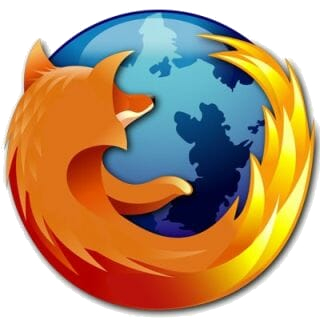
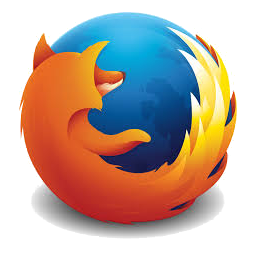
un poco mas bonito y mas interactivo

diff --git a/mdn/scripts/main.js b/mdn/scripts/main.js
@@ -1,3 +1,4 @@
+//para obtener una referencia document.querySelector('Element');
 var miTitulo = document.querySelector('h1');
 miTitulo.innerHTML = 'Hello world! ';
 
@@ -11,16 +12,34 @@ var miImage = document.querySelector('img');
 miImage.onclick = function(){
 	var miSrc = miImage.getAttribute('src');
 	if (miSrc === 'images/firefox-icon.png') {
-		miImage.setAttribute('src', 'images/firefox-icon2.png');
-		miLegend.style.color = 'red';
-		miLegend.style.background = 'blue';
-		miLegend.innerHTML ='Soy mas viejo pero tambien soy un panda rojo en peligro de extinsion';
-		
-	}else{
-		miImage.setAttribute('src', 'images/firefox-icon.png');
-		miLegend.style.color = 'red';
-		miLegend.style.background = 'blue';
+		miImage.setAttribute('src', 'images/firefox-icon1.png');
+		miLegend.style.color = '#fffc40';
+		miLegend.style.background = '#006be6';
 		miLegend.innerHTML ='Ouch! Deja de pincharme! soy un panda rojo en peligro de extinsion';
+		
+	}else if(miSrc === 'images/firefox-icon1.png'){
+		miImage.setAttribute('src', 'images/firefox-icon2.png');
+		miLegend.style.color = '#fffc40';
+		miLegend.style.background = '#006be6';
+		miLegend.innerHTML ='Soy mas viejo pero tambien soy un panda rojo en peligro de extinsion';
+	}else if(miSrc === 'images/firefox-icon2.png'){
+		miImage.setAttribute('src', 'images/firefox-icon3.png');
+		miLegend.style.color = '#fffc40';
+		miLegend.style.background = '#006be6';
+		miLegend.innerHTML ='Soy mas viejo aun pero tambien soy un panda rojo en peligro de extinsion';
+	}else if(miSrc === 'images/firefox-icon3.png'){
+		miImage.setAttribute('src', 'images/firefox-icon4.png');
+		miLegend.style.color = '#fffc40';
+		miLegend.style.background = '#006be6';
+		miLegend.innerHTML ='Yo soy un Phoenix';
+	}else if(miSrc === 'images/firefox-icon4.png'){
+		miImage.setAttribute('src', 'images/firefox-icon.png');
+		miLegend.style.color = '#fffc40';
+		miLegend.style.background = '#006be6';
+		miLegend.innerHTML ='Yo no soy un panda';
+	}
+	else{
+		alert('end');
 	}
 }
 
@@ -39,7 +58,7 @@ if (!localStorage.getItem('nombre')) {
 }
 else {
     var nombreAlmacenado = localStorage.getItem('nombre');
-    miTitulo.textContent = 'Mozilla es fresco, '+nombreAlmacenado;
+    miTitulo.textContent += nombreAlmacenado;
 }
 
 miBoton.onclick = function() {

diff --git a/mdn/index.html b/mdn/index.html
@@ -13,11 +13,12 @@
 
     <p>En Mozilla, somos una comunidad global de</p>
 
-    <ul> <!-- changed to list in the tutorial -->
+    <!-- changed to list in the tutorial -->
+    <!-- <ul>
       <li>tecnólogos</li>
       <li>pensadores</li>
       <li>constructores</li>
-    </ul>
+    </ul> -->
 
     <p>trabajando juntos para mantener Internet vivo y accesible, para que las personas de todo el mundo puedan ser contribuyentes y creadores informados de la Web. Creemos que este acto de colaboración humana a través de una plataforma abierta es esencial para el crecimiento individual y nuestro futuro colectivo.</p>
 

diff --git a/mdn/styles/style.css b/mdn/styles/style.css
@@ -13,17 +13,18 @@ p, li {
   font-size: 16px;
   line-height: 2;
   letter-spacing: 1px;
+  color: #000;
 }
 
 
 html {
-  background-color: #00539F;
+  background-color: #006be6;
 }
 
 body {
   width: 600px;
   margin: 0 auto;
-  background-color: #FF9500;
+  background-color: #fff;/*#FF9500;*/
   padding: 0 20px 20px 20px;
   border: 5px solid black;
 }
@@ -31,7 +32,7 @@ body {
 h1 {
   margin: 0;
   padding: 20px 0;
-  color: #00539F;
+  color: #006be6; /*#00539F;*/
   text-shadow: 3px 3px 1px black;
 }
 

diff --git a/v0.0.1/test001/app.js b/v0.0.1/test001/app.js
@@ -40,7 +40,7 @@ document.write('<br>');
 
 var number = 5;
 number += number;
-document.write(number);
+document.write(number);	//10
 document.write('<br>');
 
 if(number == 10){
